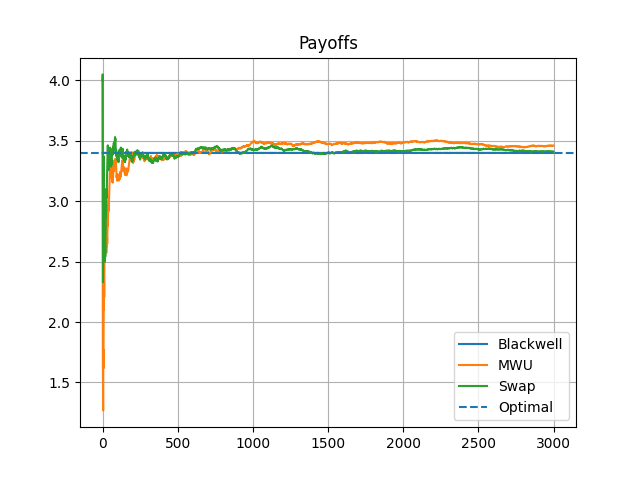
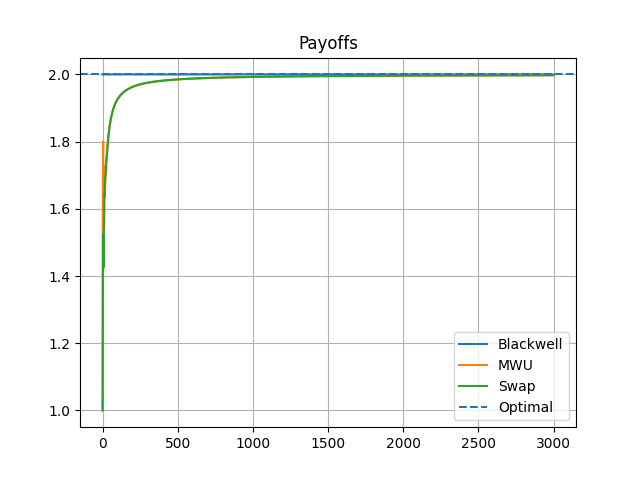
chicken game

diff --git a/main.py b/main.py
@@ -6,15 +6,15 @@ from scipy.optimize import linprog
 # GAME SETUP
 # =============================
 
-uL = np.array([[3, 0],
-               [5, 1]])
+uL = np.array([[3, 4],
+               [4, 0]])
 
 uO_list = [
-    np.array([[4, 1],
-              [3, 2]]),   # type 1 (prefers column L)
+    np.array([[2, 2],
+              [0, 4]]),   # type 1 (prefers column R)
 
-    np.array([[3, 5],
-              [0, 1]])    # type 2 (prefers column R)
+    np.array([[2, 0],
+              [2, 4]])    # type 2 (no preference)
 ]
 
 # k = 1
@@ -710,67 +710,70 @@ if __name__ == "__main__":
     # plot_pca_simplex(alphas, opt_vals)
 
 
-        # Unknown alpha
+    # Unknown alpha
 
-        z_lp = solve_lp()
-        phi_list_lp, _ = unpack(z_lp)
-        phi_mix_lp = sum(alpha[i]*phi_list_lp[i] for i in range(k))
-        opt = payoff(phi_mix_lp)
+    z_lp = solve_lp()
+    phi_list_lp, _ = unpack(z_lp)
+    phi_mix_lp = sum(alpha[i]*phi_list_lp[i] for i in range(k))
+    opt = payoff(phi_mix_lp)
 
-        print("\n=== LP Benchmark ===")
-        print("Optimal value:", opt)
+    print("\n=== LP Benchmark ===")
+    print("Optimal value:", opt)
 
-        # =============================
-        # UCB + STOCHASTIC BLACKWELL
-        # =============================
-        print("\n=== Running UCB-Stochastic Blackwell ===")
+    # =============================
+    # UCB + STOCHASTIC BLACKWELL
+    # =============================
+    print("\n=== Running UCB-Stochastic Blackwell ===")
 
-        z_ucb, bw_hist, alpha_hist = run_ucb_stochastic_blackwell(
-            T=3000,
-            gamma=0.01,
-            c=1.0
-        )
+    z_ucb, bw_hist, alpha_hist = run_ucb_stochastic_blackwell(
+        T=3000,
+        gamma=0.01,
+        c=1.0
+    )
 
-        phi_list_bw, _ = unpack(z_ucb)
-        phi_bw = sum(alpha[i]*phi_list_bw[i] for i in range(k))
+    phi_list_bw, _ = unpack(z_ucb)
+    phi_bw = sum(alpha[i]*phi_list_bw[i] for i in range(k))
 
-        bw_val = payoff(phi_bw)
+    bw_val = payoff(phi_bw)
 
-        print("Blackwell (UCB) value:", bw_val)
+    print("Blackwell (UCB) value:", bw_val)
 
-        # =============================
-        # MWU / SWAP (baseline)
-        # =============================
-        print("\n=== Running MWU / Swap ===")
+    # =============================
+    # MWU / SWAP (baseline)
+    # =============================
+    print("\n=== Running MWU / Swap ===")
 
-        mwu_hist = run_mwu_history()
-        swap_hist = run_swap_history()
+    mwu_hist = run_mwu_history()
+    swap_hist = run_swap_history()
 
-        mwu_val = payoff(mwu_hist[-1])
-        swap_val = payoff(swap_hist[-1])
+    mwu_val = payoff(mwu_hist[-1])
+    swap_val = payoff(swap_hist[-1])
 
-        print("MWU value:", mwu_val)
-        print("Swap value:", swap_val)
+    print("MWU value:", mwu_val)
+    print("Swap value:", swap_val)
 
-        # =============================
-        # DIAGNOSTICS
-        # =============================
-        print("\n=== Diagnostics ===")
+    # =============================
+    # DIAGNOSTICS
+    # =============================
+    print("\n=== Diagnostics ===")
 
-        # regret + feasibility
-        bw_pay, bw_reg = evaluate_history(bw_hist)
+    # regret + feasibility
+    bw_pay, bw_reg = evaluate_history(bw_hist)
 
-        print("Final regret:", bw_reg[-1])
+    print("Final regret:", bw_reg[-1])
 
-        # =============================
-        # PLOTS
-        # =============================
-        print("\n=== Generating plots ===")
+    # =============================
+    # PLOTS
+    # =============================
+    print("\n=== Generating plots ===")
 
-        plot_payoff(bw_hist, mwu_hist, swap_hist, opt)
-        plot_convergence(bw_hist)
-        plot_benchmark(bw_hist, mwu_hist, swap_hist, opt)
-        plot_constraint_violations(bw_hist)
-        plot_alpha_learning(alpha_hist, alpha)
+    plot_payoff(bw_hist, mwu_hist, swap_hist, opt)
+    plot_convergence(bw_hist)
+    plot_benchmark(bw_hist, mwu_hist, swap_hist, opt)
+    plot_constraint_violations(bw_hist)
+    plot_alpha_learning(alpha_hist, alpha)
+    z_lp, dual_ineq, dual_eq = solve_lp_with_duals()
+    plot_duals(dual_ineq)
 
-        print("Saved plots: payoffs.png, convergence.png, benchmark.png, constraints.png, alpha_learning.png")
+
+    print("Saved plots: payoffs.png, convergence.png, benchmark.png, constraints.png, alpha_learning.png, dual_ineq.png")
